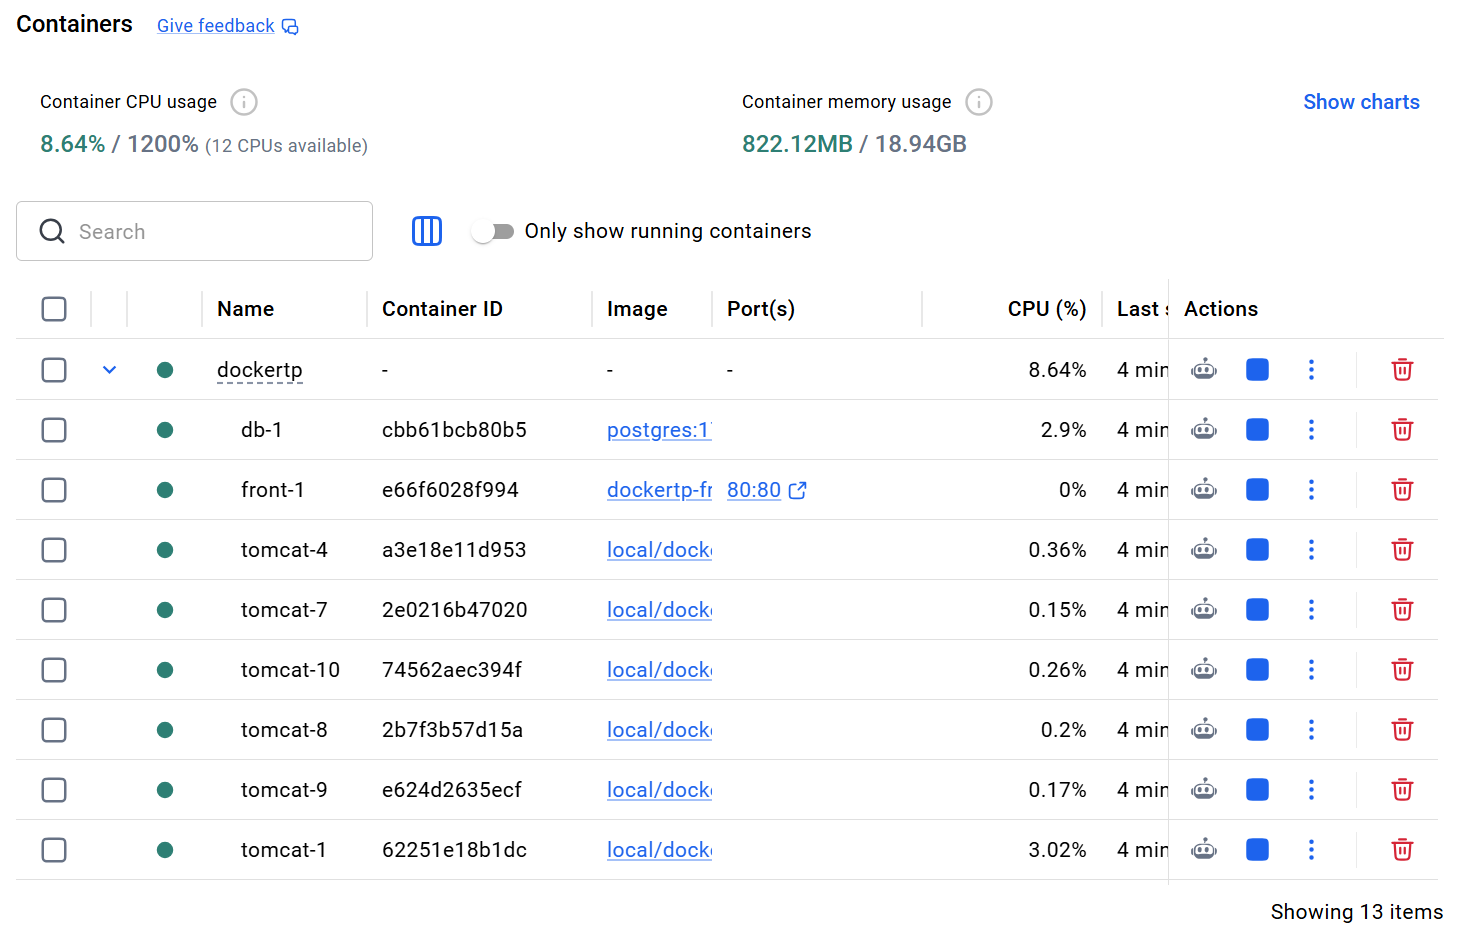
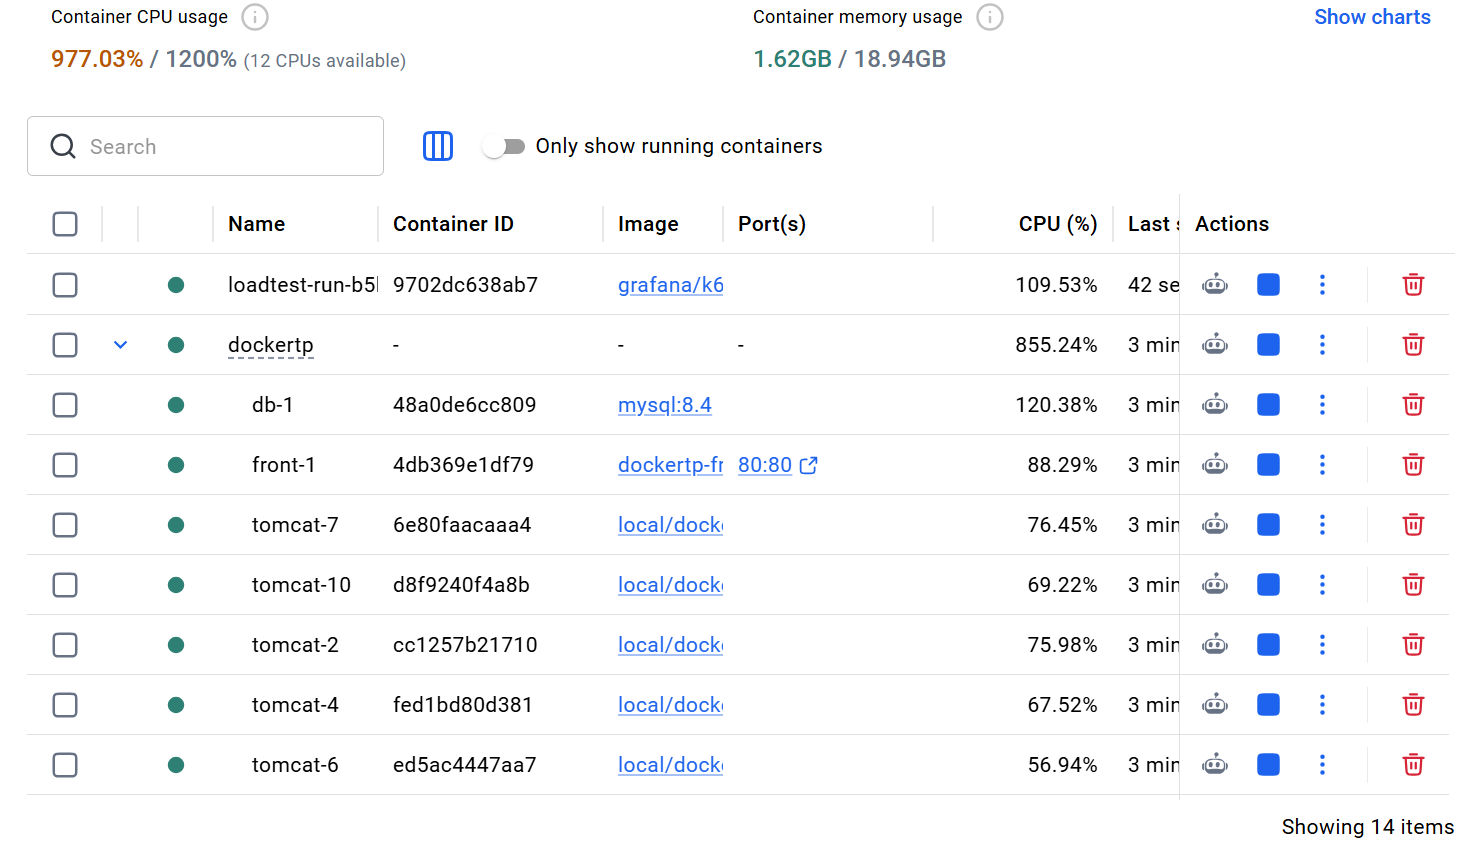
stress

diff --git a/README.md b/README.md
@@ -187,22 +187,7 @@ Les images `webapp` et `front` sont construites en **plusieurs étapes** (*multi
 
 ## 4. Orchestration
 
-### 4.1 Limitation des ressources
-
-| Conteneur | Limite | Justification |
-|---|---|---|
-| `front` (nginx) | **64 Mo** | nginx ne sert que des fichiers statiques et relaie des requêtes : il consomme quelques Mo. 64 Mo laissent une marge confortable. |
-| `tomcat` | **768 Mo, 1 CPU** | Une JVM a besoin d'espace pour ses objets (*heap*), mais aussi pour le code compilé, les threads et le reste de la JVM. 1 CPU permet à Tomcat de démarrer bien avant les 60 s du `start_period` du healthcheck : avec moins, le démarrage ralentit fortement. |
-| `tomcat` (JVM) | **`-XX:MaxRAMPercentage=75`** | La JVM lit la limite du conteneur et s'accorde 75 % pour le *heap* (environ 576 Mo). Les 25 % restants servent au reste de la JVM. Sans cette option, la JVM ne prendrait que 25 % de la mémoire par défaut. Sans limite dans le compose, le pourcentage s'appliquerait à toute la mémoire de la machine. |
-| `db` (les 3 bases) | **512 Mo** | Suffisant pour une petite base de développement. MySQL et MariaDB sont les plus gourmands au démarrage. |
-| `webapp` | aucune | Jamais lancé (`replicas: 0`) |
-| `setup` | aucune | Ne vit que quelques secondes, le temps des questions |
-
-- Les limites sont déclarées avec `deploy.resources.limits`, appliqué par `docker compose` même hors Docker Swarm.
-- Chaque limite est définie **dans le fichier qui déclare le service** : `front` à la racine, `tomcat` dans `dockerServer/`, `db` dans chaque fragment `db/<base>.yaml`.
-- Un conteneur qui dépasse sa limite mémoire est tué par Docker (code 137, `OOMKilled`), puis relancé par `restart: unless-stopped`. `docker stats` permet de suivre la consommation réelle.
-
-### 4.2 Gestion des SIGTERM
+### 4.1 Gestion des SIGTERM
 
 À l'arrêt (`docker compose stop`, `down`, ou un redémarrage), Docker envoie un signal **au PID 1** du conteneur, puis le tue de force (SIGKILL) au bout de 10 secondes s'il est toujours là. Un arrêt propre suppose donc que le vrai programme soit le PID 1 et qu'il réagisse au signal.
 
@@ -217,7 +202,7 @@ Les images `webapp` et `front` sont construites en **plusieurs étapes** (*multi
 - **`front` et `db`** : les images officielles déclarent elles-mêmes le signal adapté à leur arrêt propre. MySQL et MariaDB gèrent SIGTERM nativement.
 - **`setup`** : Node n'est pas conçu pour tourner en PID 1. Linux ignore alors les signaux pour lesquels il n'a rien prévu, et un Ctrl+C restait sans effet. **`init: true`** place en PID 1 un mini-processus (`tini`) qui transmet les signaux à Node.
 
-### 4.6 Lint
+### 4.2 Lint
 
 Trois services vérifient la qualité du code. Comme `setup`, ils ont le profil `lint` : `docker compose up` les ignore, et on les lance à la demande.
 
@@ -256,9 +241,9 @@ Le setup demande le **nombre d'instances Tomcat** (de 1 à 10). La réponse est 
 
 **Résultats mesurés avec 3 instances** : 60 requêtes simultanées se répartissent en **6 / 6 / 6** connexions, et avec une instance arrêtée, **20 requêtes sur 20** réussissent.
 
-Ressources : 
+### 4.4 Ressources  
 
-Meme avec 10 Tomcats lancés, la consomation reste raisonable, même sous traffic soutenu, grâce a la légèreté des tomcats :
+Meme avec 10 Tomcats lancés, la consomation reste raisonable, même sous traffic soutenu, grâce a la légèreté des tomcats (test lancés via `docker compose run --rm loadtest`) :
 
 ![alt text](img/image.png)
 
@@ -270,6 +255,20 @@ Les différents tomcats, eux se repartissent bien la charge de manière égale :
 
 ![alt text](img/image-2.png)
 
+### 4.5 Limitation des ressources
+
+| Conteneur | Limite | Justification |
+|---|---|---|
+| `front` (nginx) | **64 Mo** | nginx ne sert que des fichiers statiques et relaie des requêtes : il consomme quelques Mo. 64 Mo laissent une marge confortable. |
+| `tomcat` | **768 Mo, 1 CPU** | Une JVM a besoin d'espace pour ses objets (*heap*), mais aussi pour le code compilé, les threads et le reste de la JVM. 1 CPU permet à Tomcat de démarrer bien avant les 60 s du `start_period` du healthcheck : avec moins, le démarrage ralentit fortement. |
+| `tomcat` (JVM) | **`-XX:MaxRAMPercentage=75`** | La JVM lit la limite du conteneur et s'accorde 75 % pour le *heap* (environ 576 Mo). Les 25 % restants servent au reste de la JVM. Sans cette option, la JVM ne prendrait que 25 % de la mémoire par défaut. Sans limite dans le compose, le pourcentage s'appliquerait à toute la mémoire de la machine. |
+| `db` (les 3 bases) | **512 Mo** | Suffisant pour une petite base de développement. MySQL et MariaDB sont les plus gourmands au démarrage. |
+| `webapp` | aucune | Jamais lancé (`replicas: 0`) |
+| `setup` | aucune | Ne vit que quelques secondes, le temps des questions |
+
+- Les limites sont déclarées avec `deploy.resources.limits`, appliqué par `docker compose` même hors Docker Swarm.
+- Chaque limite est définie **dans le fichier qui déclare le service** : `front` à la racine, `tomcat` dans `dockerServer/`, `db` dans chaque fragment `db/<base>.yaml`.
+- Un conteneur qui dépasse sa limite mémoire est tué par Docker (code 137, `OOMKilled`), puis relancé par `restart: unless-stopped`. `docker stats` permet de suivre la consommation réelle.
 
 
 **Limites :**
